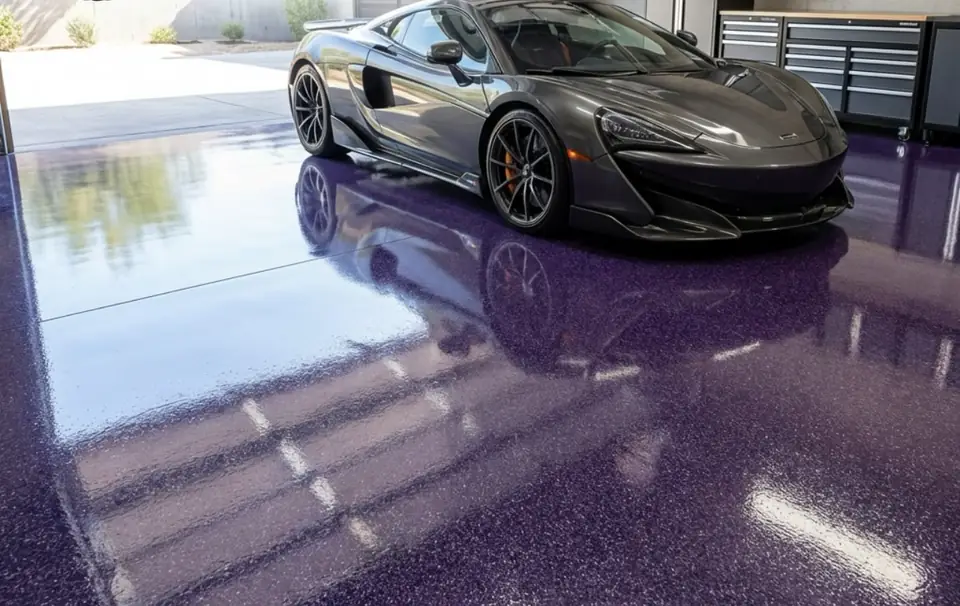
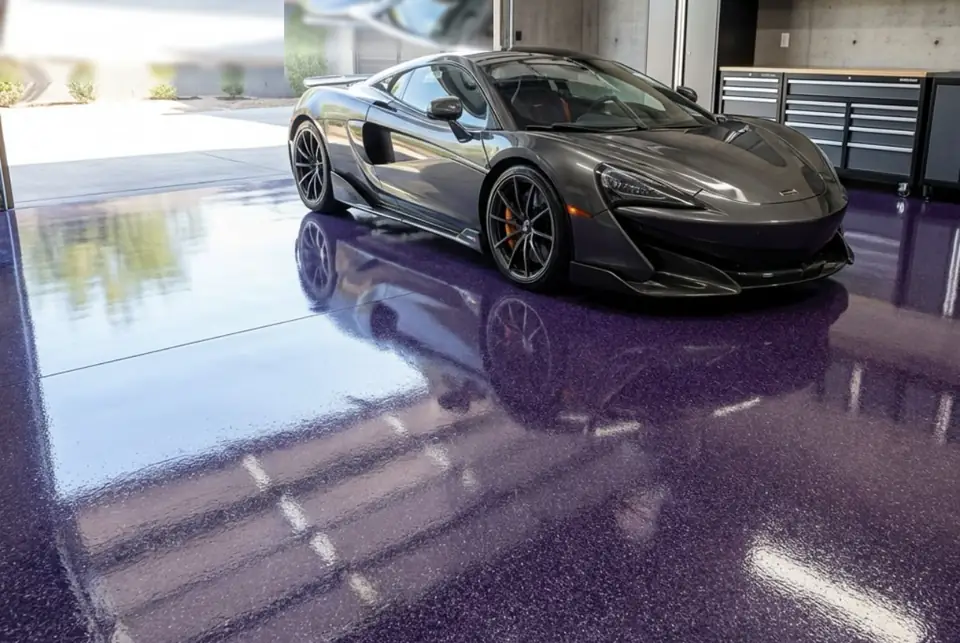
Rhino demo: mobile layer stack fit, comparison switcher, warranty badge, full car in hero
- Layer stack on phones: heading, stage and label get their own bands and the
  stack is sized to the real viewport, so nothing overlaps.
- System comparison on mobile is a segmented switcher instead of a
  sideways-scrolling table (table kept on desktop).
- Warranty seal: stacked layout, compact badge on mobile.
- Hero image re-cropped so the whole car shows, anchored to the top.

Claude-Session: https://claude.ai/code/session_01YGmxgok1zo7j5KeCVwPnuz

diff --git a/demos/rhino/src/css/styles.css b/demos/rhino/src/css/styles.css
@@ -101,7 +101,7 @@ p { margin: 0 0 1em; }
 
 /* ---------- hero ---------- */
 .hero { position: relative; min-height: min(88dvh, 860px); display: grid; align-items: end; isolation: isolate; overflow: hidden; }
-.hero-bg, .hero-bg img { position: absolute; inset: 0; width: 100%; height: 100%; object-fit: cover; z-index: -2; }
+.hero-bg, .hero-bg img { position: absolute; inset: 0; width: 100%; height: 100%; object-fit: cover; object-position: center top; z-index: -2; }
 .hero::before { content: ''; position: absolute; inset: 0; z-index: -1; background: linear-gradient(90deg, oklch(0.13 0.01 295 / .92) 0%, oklch(0.13 0.01 295 / .62) 42%, oklch(0.13 0.01 295 / .1) 75%), linear-gradient(0deg, var(--bg) 0%, transparent 38%); }
 .hero-inner { padding-block: 6rem clamp(3rem, 7vw, 5.5rem); }
 .hero .display { max-width: 15ch; }
@@ -188,15 +188,19 @@ legend, .field label { font-weight: 600; font-size: .92rem; color: var(--ink-2);
 .slab.on { box-shadow: 0 0 0 2px var(--accent-hi), 0 0 40px oklch(0.64 0.2 296 / .45); }
 .slab-tag { position: absolute; left: 102%; top: 50%; white-space: nowrap; font-size: .8rem; font-weight: 600; color: var(--ink-2); transform: rotateZ(38deg) rotateX(-58deg) translateY(-50%); transform-origin: left; opacity: 0; transition: opacity 200ms ease; pointer-events: none; display: none; }
 @media (max-width: 860px) {
-  .layers { height: 300vh; }
-  .layers-grid { grid-template-columns: 1fr; gap: 0; align-content: start; padding-top: 80px; }
+  .layers { height: 320vh; }
+  /* heading / stage / label each get their own band, so nothing overlaps */
+  .layers-sticky { display: block; }
+  .layers-grid { display: flex; flex-direction: column; align-items: stretch; height: 100%; gap: 0; padding-top: 80px; padding-bottom: calc(84px + env(safe-area-inset-bottom)); }
+  .layers-copy { display: contents; }
   .layers-copy .lede-sm { display: none; }
-  .layers-copy .h2 { font-size: 1.6rem; margin-bottom: .3rem; }
-  .stack-stage { height: 46dvh; order: 2; }
-  .stack { width: min(58vw, 260px); }
-  .layer-list { position: absolute; left: var(--gut); right: var(--gut); bottom: calc(1.5dvh + 64px); margin: 0; }
+  .layers-copy .h2 { order: 1; font-size: 1.55rem; margin: 0 0 .4rem; flex: none; }
+  .stack-stage { order: 2; flex: 1 1 auto; min-height: 0; height: auto; overflow: hidden; }
+  .stack { width: var(--stack-w, min(52vw, 230px)); }
+  .layer-list { order: 3; position: static; flex: none; min-height: 6.4rem; margin: .4rem 0 0; display: block; }
   .layer-list li { display: none; background: var(--surface) !important; box-shadow: inset 0 0 0 1px var(--line); }
   .layer-list li.on { display: block; }
+  .layer-list li.on span { max-height: none; }
 }
 .layers.static { height: auto; }
 .layers.static .layers-sticky { position: static; height: auto; padding-block: var(--sec); }
@@ -226,6 +230,23 @@ legend, .field label { font-weight: 600; font-size: .92rem; color: var(--ink-2);
 .ticks li, .crosses li { display: flex; gap: .55rem; align-items: flex-start; }
 .ticks .i { color: var(--ok); margin-top: .22em; }
 .crosses .i { color: var(--ink-3); margin-top: .22em; }
+.compare-m + .fine, .compare-wrap + .compare-m + .fine { margin-top: .9rem; }
+.compare-m { display: none; }
+@media (max-width: 760px) {
+  .compare-wrap { display: none; }
+  .compare-m { display: block; margin-top: 2rem; }
+  .seg { display: grid; grid-template-columns: repeat(3, 1fr); gap: 4px; padding: 4px; border-radius: 999px; background: var(--surface); box-shadow: inset 0 0 0 1px var(--line); }
+  .seg button { min-height: 44px; border: 0; border-radius: 999px; background: transparent; color: var(--ink-2); font: inherit; font-weight: 650; font-stretch: 110%; cursor: pointer; transition: background-color 200ms var(--ease), color 200ms ease; }
+  .seg button[aria-selected="true"] { background: var(--violet); color: var(--ink); box-shadow: inset 0 0 0 1px oklch(1 0 0 / .14); }
+  .cmp-panel { margin: .8rem 0 0; padding: 1.2rem 1.3rem; border-radius: var(--r); background: linear-gradient(160deg, var(--surface-2), var(--surface)); box-shadow: inset 0 0 0 1px oklch(1 0 0 / .07); }
+  .cmp-panel[hidden] { display: none; }
+  .cmp-name { font-stretch: 116%; font-weight: 760; font-size: 1.25rem; margin-bottom: .6rem; }
+  .cmp-name small { display: block; font-size: .82rem; font-weight: 600; color: var(--accent-hi); font-stretch: 100%; }
+  .cmp-panel dl { margin: 0; }
+  .cmp-panel dl div { display: grid; grid-template-columns: 7.5rem 1fr; gap: .8rem; padding: .7rem 0; border-top: 1px solid oklch(1 0 0 / .07); }
+  .cmp-panel dt { color: var(--ink-3); font-size: .88rem; }
+  .cmp-panel dd { margin: 0; }
+}
 .compare-wrap + .fine { margin-top: .9rem; }
 .compare-wrap { margin-top: 2.5rem; overflow-x: auto; border-radius: var(--r); box-shadow: inset 0 0 0 1px var(--line); }
 .compare { width: 100%; min-width: 640px; border-collapse: collapse; font-size: .95rem; }
@@ -298,11 +319,19 @@ legend, .field label { font-weight: 600; font-size: .92rem; color: var(--ink-2);
 /* ---------- warranty ---------- */
 .war-grid { display: grid; grid-template-columns: .55fr 1.45fr; gap: clamp(1.5rem, 5vw, 4rem); align-items: start; }
 @media (max-width: 760px) { .war-grid { grid-template-columns: 1fr; } }
-.war-seal { display: grid; place-items: center; aspect-ratio: 1; max-width: 240px; border-radius: 50%; background: radial-gradient(circle at 35% 30%, var(--violet), var(--violet-2) 70%); box-shadow: inset 0 0 0 1px oklch(1 0 0 / .14), 0 30px 60px -30px oklch(0.3 0.15 293 / .8); text-align: center; position: relative; }
-.war-seal .i { position: absolute; top: 14%; width: 34px; height: 34px; color: var(--accent-hi); }
-.war-seal p { margin: 0; }
-.war-seal b { display: block; font-stretch: 125%; font-weight: 820; font-size: 4.2rem; line-height: .9; }
-.war-seal span { display: block; max-width: 12ch; margin: .3rem auto 0; font-size: .88rem; color: var(--ink-2); }
+.war-seal { display: flex; flex-direction: column; align-items: center; justify-content: center; gap: .15rem; aspect-ratio: 1; width: 100%; max-width: 240px; border-radius: 50%; background: radial-gradient(circle at 35% 30%, var(--violet), var(--violet-2) 70%); box-shadow: inset 0 0 0 1px oklch(1 0 0 / .14), 0 30px 60px -30px oklch(0.3 0.15 293 / .8); text-align: center; position: relative; }
+.war-seal .i { width: 30px; height: 30px; color: var(--accent-hi); margin-bottom: .2rem; }
+.war-seal b { font-stretch: 125%; font-weight: 820; font-size: 4.2rem; line-height: .9; letter-spacing: -0.02em; }
+.war-seal span { font-stretch: 112%; font-weight: 700; font-size: 1rem; text-transform: uppercase; letter-spacing: .06em; }
+.war-seal small { font-size: .78rem; color: var(--ink-2); }
+@media (max-width: 760px) {
+  .war-grid { gap: 1.5rem; }
+  .war-seal { display: grid; grid-template-columns: auto auto 1fr; grid-template-rows: auto auto; column-gap: .9rem; align-items: center; aspect-ratio: auto; max-width: none; border-radius: var(--r); padding: 1.1rem 1.3rem; }
+  .war-seal .i { grid-row: 1 / 3; margin: 0; width: 34px; height: 34px; }
+  .war-seal b { grid-row: 1 / 3; font-size: 3.2rem; }
+  .war-seal span { align-self: end; }
+  .war-seal small { align-self: start; }
+}
 .war-cols { display: grid; grid-template-columns: 1fr 1fr; gap: 1.5rem; margin: 1.5rem 0; }
 @media (max-width: 560px) { .war-cols { grid-template-columns: 1fr; } }
 

diff --git a/demos/rhino/src/js/layers.js b/demos/rhino/src/js/layers.js
@@ -11,13 +11,21 @@ export default function init(section) {
   const items = [...section.querySelectorAll('[data-li]')];
   const stack = section.querySelector('[data-stack]');
   const n = slabs.length;
-  let raf = 0, live = false, lastActive = -2;
+  const stage = section.querySelector('.stack-stage');
+  let raf = 0, live = false, lastActive = -2, G = 44;
+  // Fit the exploded stack inside the stage on phones (viewport height varies with browser chrome).
+  function fit() {
+    if (innerWidth >= 860) { G = 44; stack.style.removeProperty('--stack-w'); return; }
+    const h = stage.clientHeight, w = stage.clientWidth;
+    G = Math.max(8, Math.min(20, h * 0.04));
+    const spread = (n - 1) * (G + 6) * 0.85;
+    const size = Math.max(140, Math.min(w * 0.62, (h - spread) / 0.85));
+    stack.style.setProperty('--stack-w', size + 'px');
+  }
 
   function frame() {
     const r = section.getBoundingClientRect();
     const p = clamp(-r.top / Math.max(1, r.height - innerHeight), 0, 1);
-    const mobile = innerWidth < 860;
-    const G = mobile ? 24 : 44;
     let spread;
     if (p < 0.12) spread = 0;
     else if (p < 0.3) spread = ease((p - 0.12) / 0.18);
@@ -47,5 +55,6 @@ export default function init(section) {
     if (live) raf = requestAnimationFrame(frame);
   }).observe(section);
   slabs.forEach((s) => { s.style.transition = 'none'; });
+  fit(); addEventListener('resize', () => { fit(); frame(); }, { passive: true });
   frame();
 }

diff --git a/demos/rhino/src/js/main.js b/demos/rhino/src/js/main.js
@@ -86,6 +86,14 @@ $$('[data-filter]').forEach((b) => b.addEventListener('click', () => {
   track('gallery_filter', { filter: k });
 }));
 
+/* ---------- mobile system comparison switcher ---------- */
+$$('[data-compare]').forEach((c) => {
+  const tabs = $$('[data-cmp]', c), panels = $$('[data-cmp-panel]', c);
+  const pick = (i) => { tabs.forEach((t, k) => t.setAttribute('aria-selected', k === i)); panels.forEach((p, k) => { p.hidden = k !== i; }); };
+  tabs.forEach((t, i) => t.addEventListener('click', () => pick(i)));
+  pick(0);
+});
+
 /* ---------- YouTube: thumbnail until clicked (no third-party JS on load) ---------- */
 $$('[data-yt]').forEach((b) => b.addEventListener('click', () => {
   const f = document.createElement('iframe');

diff --git a/demos/rhino/beats-current-site.md b/demos/rhino/beats-current-site.md
@@ -16,5 +16,5 @@ These are plain-English points Dan can use in his reply to David.
 
    | Page | Performance | Accessibility | Best Practices | SEO | LCP |
    |---|---|---|---|---|---|
-   | Home | 96 | 100 | 100 | 100 | 2.4s |
+   | Home | 100 | 100 | 100 | 100 | 1.8s |
    | Inner pages | 97 to 99 | 100 | 100 | 100 | 2.1 to 2.5s |
